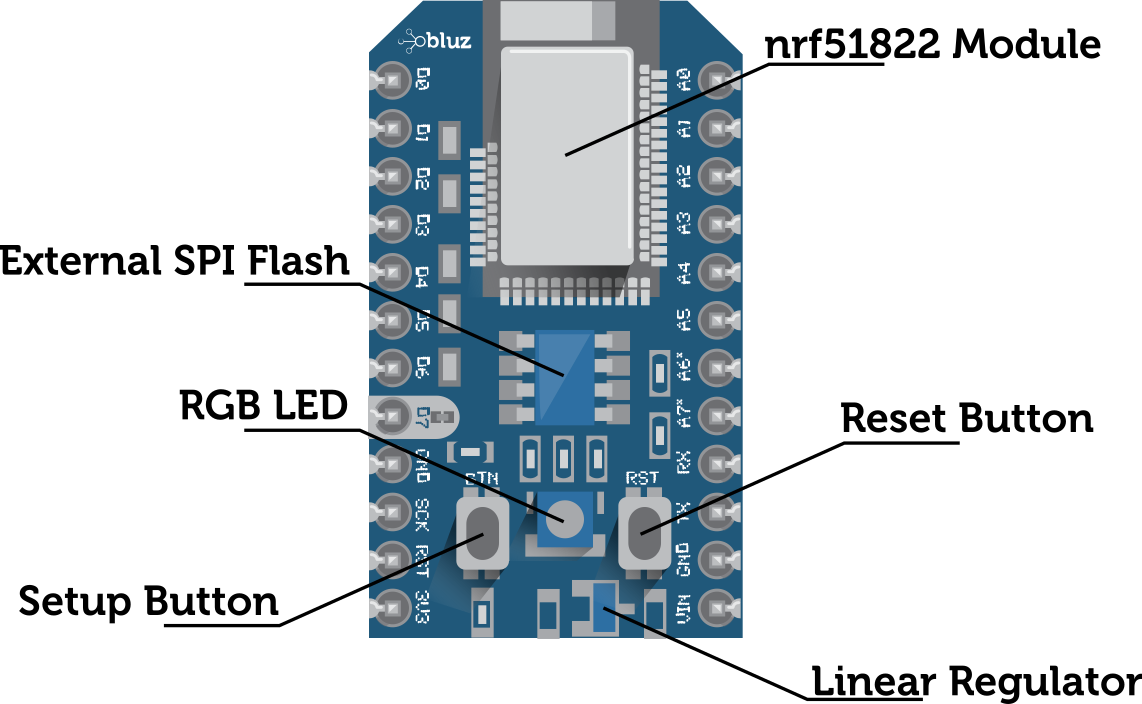
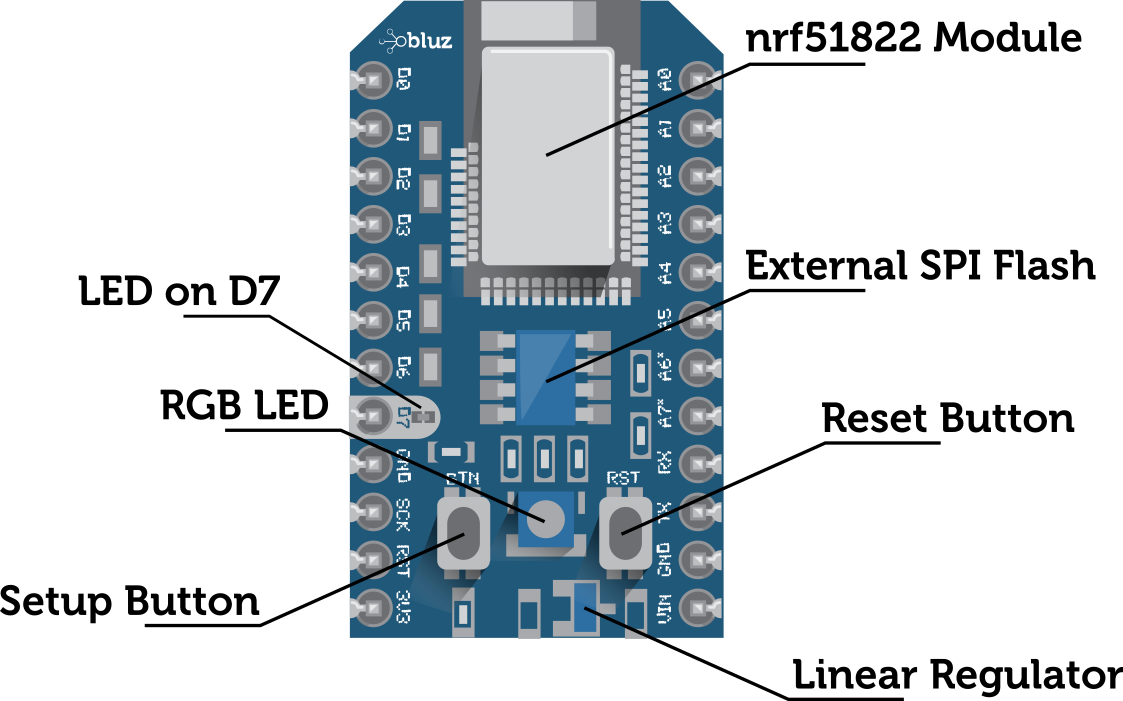
new pictures. started to add documentation for gateway shield

Changed region(s): [[0.0, 0.0, 0.9973, 0.9586], [0.6545, 0.9287, 1.0, 1.0], [0.7168, 0.5692, 0.9662, 0.6591]]

diff --git a/docs/hardware/gw_shield.md b/docs/hardware/gw_shield.md
@@ -1,0 +1,23 @@
+#Bluz DK
+
+![hero](/img/gw_shield.jpg)
+
+Bluz DK is the main development board. It contains an ARM Cortex-M0 that runs at 16MHz, 32K Ram, 256K Flash, and a load of hardware peripherals (UART, SPI, I2C, etc.)
+
+Bluz is also outfitted with 2Mb (256KB) external SPI flash. This is used to store backup firmware, system flags, and to download new over the air firmware images.
+
+And, of course, it contains the Bluetooth LE radio and stack, giving bluz it's power-sipping wireless performance.
+
+##Guide
+![Bluz DK](/img/bluz_GatewayShield_guide.png)
+
+The following are the major components on the gateway shield along with their purpose:
+
+- External SPI Flash: Used to store ID, keys, factory reset firmware, and OTA updates when they are downloaded.
+- LED on D7: This is a user controllable LED, just set pin D7 to HIGH to turn it on.
+- Reset Button: Will reboot bluz and the Photon/Electron.
+- nrf51822 Module: Contains the nrf51822 along with the antenna.
+- SWD Header: Used to program the nrf51822 with JTAG
+- Power LED: Indicates the board is powered
+- USB for Power: This provides power to the board, through the on-board linear regulator. This port does not provide USB communication to the Photon or nrf51
+

diff --git a/docs/hardware/dk.md b/docs/hardware/dk.md
@@ -1,6 +1,6 @@
 #Bluz DK
 
-![hero](/img/new_board.jpg)
+![hero](/img/bluz.jpg)
 
 Bluz DK is the main development board. It contains an ARM Cortex-M0 that runs at 16MHz, 32K Ram, 256K Flash, and a load of hardware peripherals (UART, SPI, I2C, etc.)
 

diff --git a/docs/hardware/battery.md b/docs/hardware/battery.md
@@ -1,6 +1,6 @@
 #CR2032 Battery Shield
 
-![hero](/img/new_battery_shield.jpg)
+![hero](/img/battery_shield.jpg)
 
 The battery shield holds a CR2032 battery and can power a bluz DK through the 3V3 pin.
 
